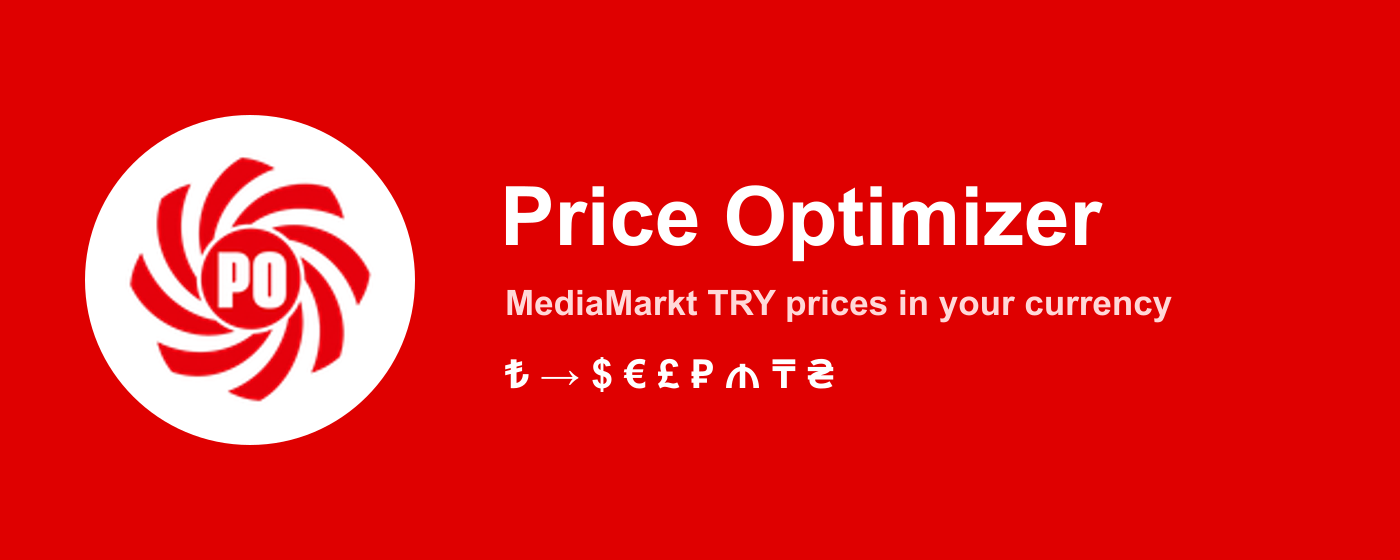
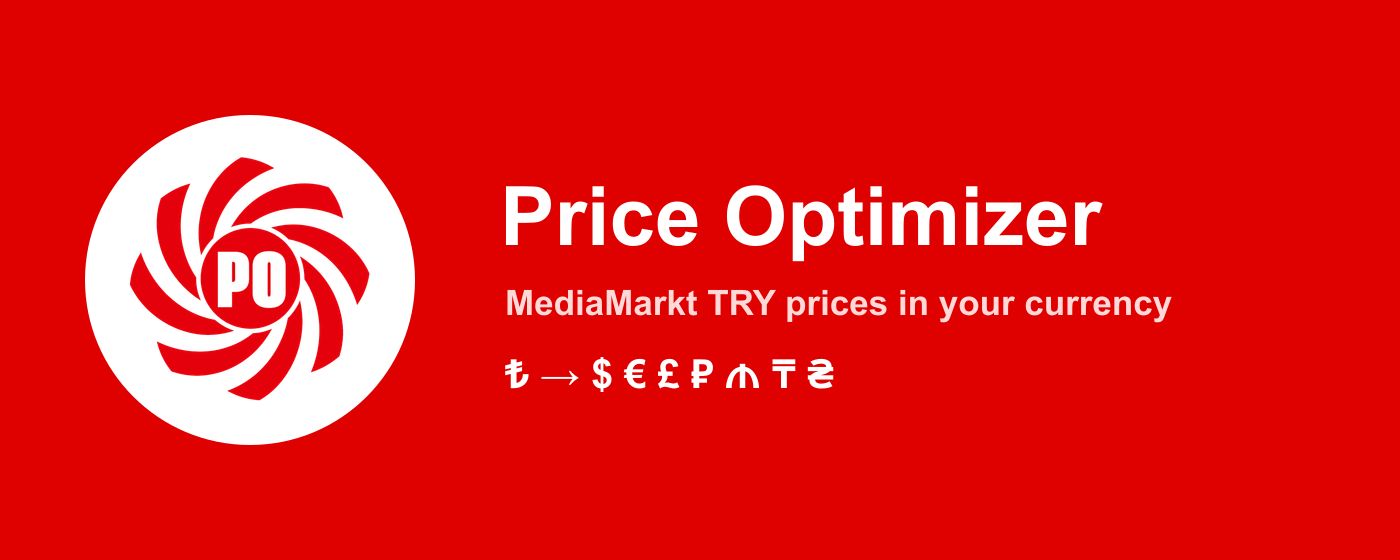
Prepare compliant Chrome Web Store artwork

Changed region(s): [[0.0921, 0.3339, 0.2764, 0.6982], [0.1843, 0.3036, 0.215, 0.3339], [0.1536, 0.2732, 0.1843, 0.3036]]

diff --git a/scripts/generate-store-assets.js b/scripts/generate-store-assets.js
@@ -40,11 +40,11 @@ async function buildScreenshot() {
     <rect x="790" y="70" width="430" height="660" rx="28" fill="#fff" stroke="#ddd" stroke-width="2"/>
   `);
   const popup = await sharp(path.join(root, "assets", "popup-preview.png")).resize(390, 600).png().toBuffer();
-  const icon = await sharp(path.join(root, "icons", "icon128.png")).resize(112, 112).png().toBuffer();
+  const icon = await sharp(path.join(root, "assets", "icon-master.png")).resize(112, 112).png().toBuffer();
   await sharp(base).composite([
     { input: icon, left: 58, top: 60 },
     { input: popup, left: 810, top: 100 }
-  ]).png().toFile(path.join(output, "screenshot-1280x800.png"));
+  ]).removeAlpha().png().toFile(path.join(output, "screenshot-1280x800.png"));
 }
 
 async function buildSmallPromo() {
@@ -55,8 +55,8 @@ async function buildSmallPromo() {
     <text class="ui" x="198" y="164" fill="#fff" font-size="31" font-weight="800">Optimizer</text>
     <text class="ui" x="198" y="200" fill="#ffd8d8" font-size="19" font-weight="600">₺  →  $  €  £</text>
   `);
-  const icon = await sharp(path.join(root, "icons", "icon128.png")).resize(126, 126).png().toBuffer();
-  await sharp(base).composite([{ input: icon, left: 39, top: 77 }]).png().toFile(path.join(output, "small-promo-440x280.png"));
+  const icon = await sharp(path.join(root, "assets", "icon-master.png")).resize(126, 126).png().toBuffer();
+  await sharp(base).composite([{ input: icon, left: 39, top: 77 }]).removeAlpha().png().toFile(path.join(output, "small-promo-440x280.png"));
 }
 
 async function buildMarquee() {
@@ -67,8 +67,8 @@ async function buildMarquee() {
     <text class="ui" x="505" y="315" fill="#ffd8d8" font-size="35" font-weight="600">MediaMarkt TRY prices in your currency</text>
     <text class="ui" x="505" y="388" fill="#fff" font-size="40" font-weight="700">₺  →  $  €  £  ₽  ₼  ₸  ₴</text>
   `);
-  const icon = await sharp(path.join(root, "icons", "icon128.png")).resize(286, 286).png().toBuffer();
-  await sharp(base).composite([{ input: icon, left: 107, top: 137 }]).png().toFile(path.join(output, "marquee-1400x560.png"));
+  const icon = await sharp(path.join(root, "assets", "icon-master.png")).resize(286, 286).png().toBuffer();
+  await sharp(base).composite([{ input: icon, left: 107, top: 137 }]).removeAlpha().png().toFile(path.join(output, "marquee-1400x560.png"));
 }
 
 Promise.all([buildScreenshot(), buildSmallPromo(), buildMarquee()])
